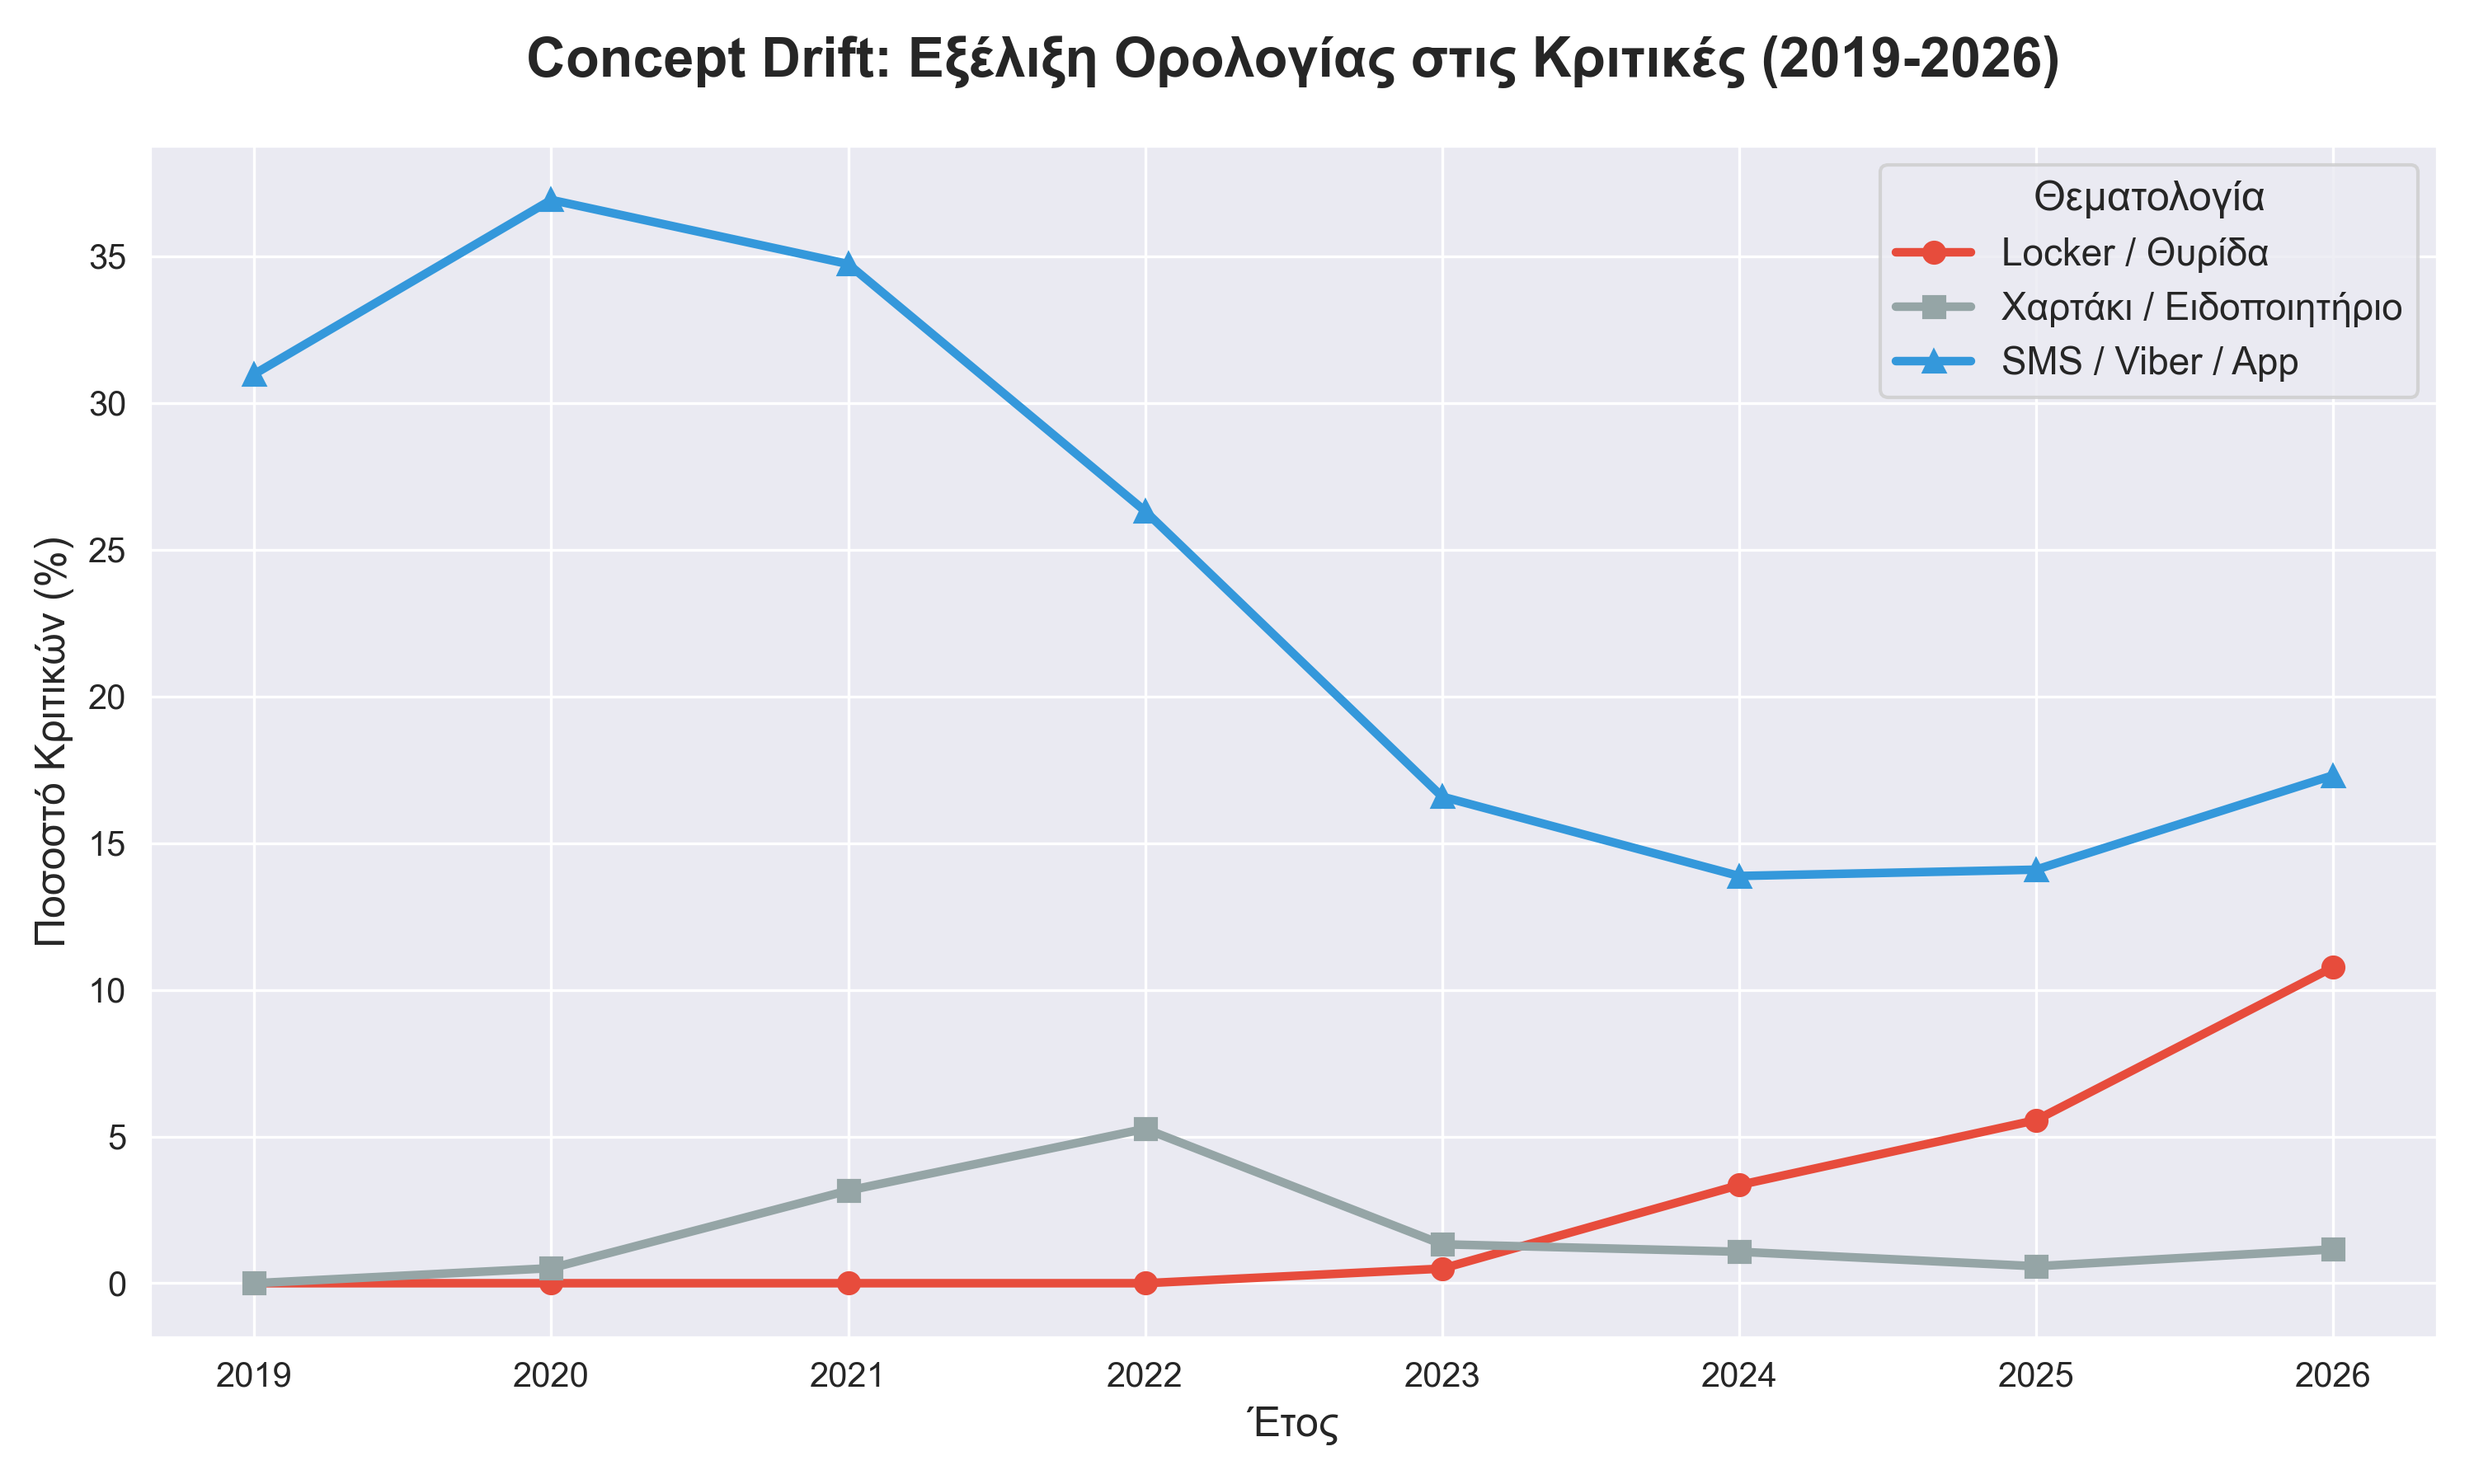
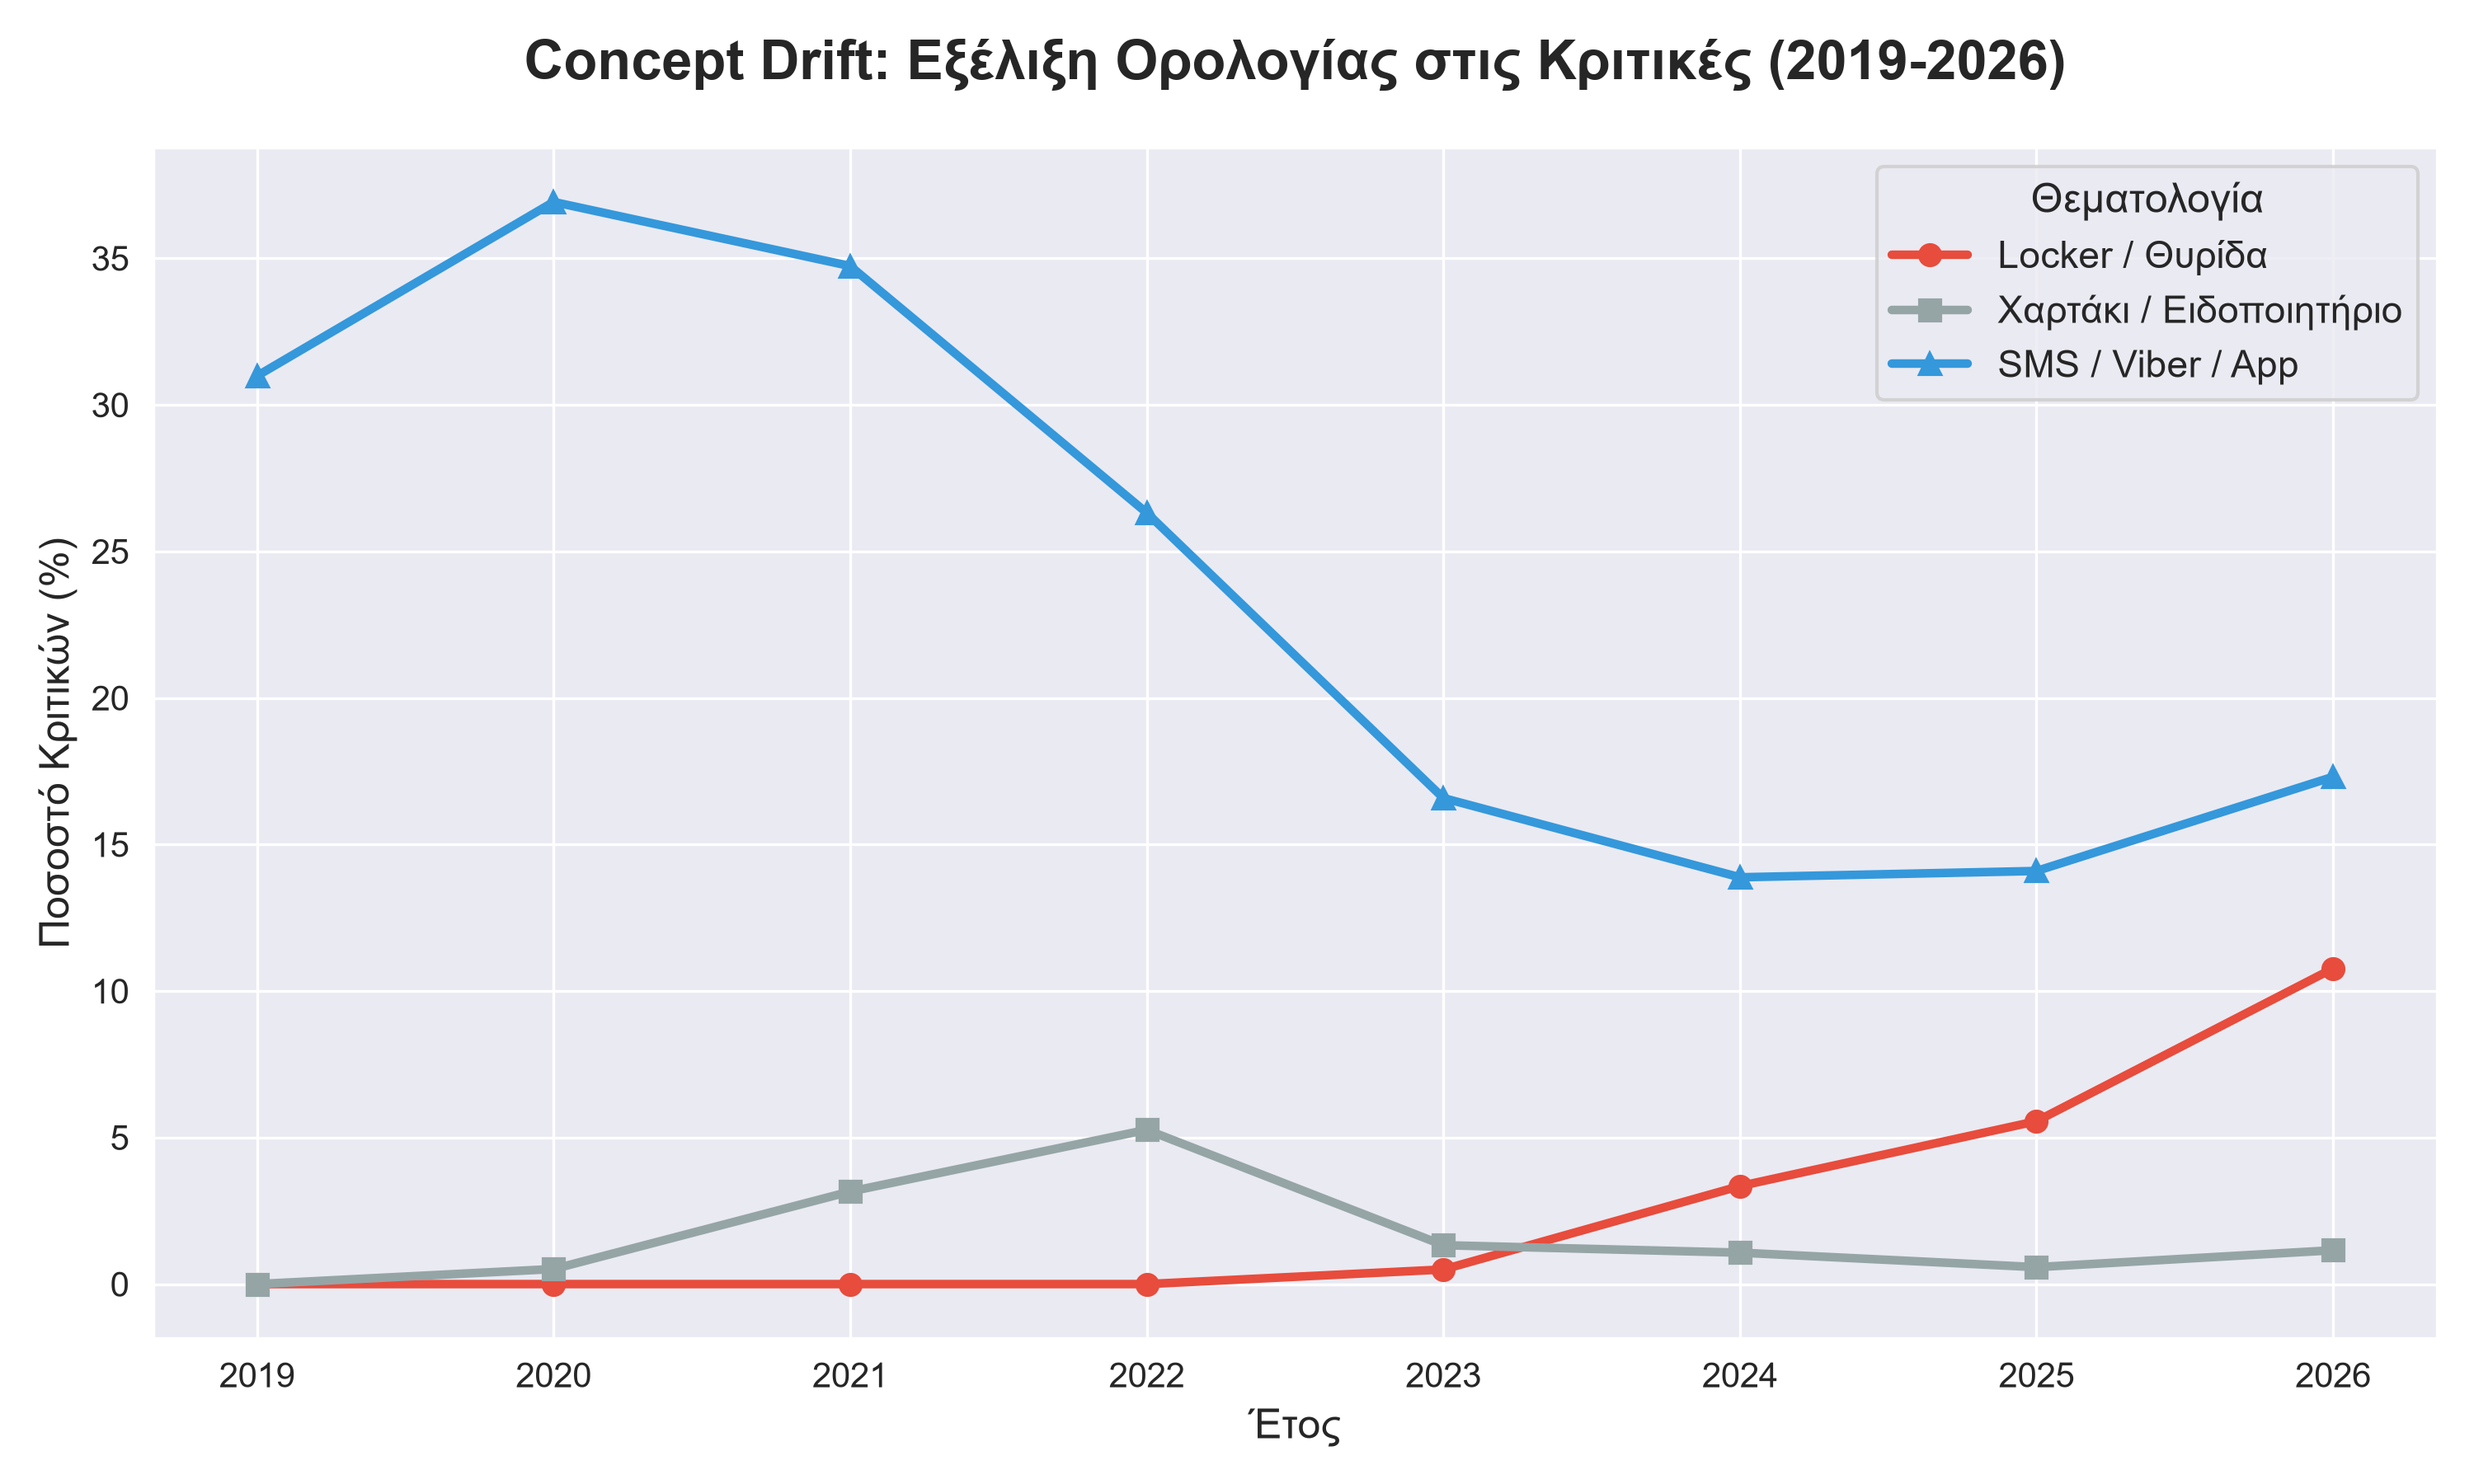
Update script comments and dynamic paths

diff --git a/scripts/concept_drift_analysis.py b/scripts/concept_drift_analysis.py
@@ -6,7 +6,8 @@ import os
 
 def main():
     print("Loading data...")
-    # Δυναμική εύρεση του σωστού path ανεξάρτητα από το πού τρέχει το script
+
+    # Dynamically find the absolute path to ensure execution from any directory
     script_dir = os.path.dirname(os.path.abspath(__file__))
     project_root = os.path.dirname(script_dir)
     data_path = os.path.join(project_root, 'data', '03_reviews_final_processed.csv')
@@ -19,10 +20,10 @@ def main():
     df['date'] = pd.to_datetime(df['date'], errors='coerce')
     df['year'] = df['date'].dt.year
 
-    # Filter years 2019 to 2026 (ignore 2018 as it has only 21 reviews, which adds noise)
+    # Filter years 2019 to 2026 (ignore 2018 as it has only 21 reviews)
     df = df[(df['year'] >= 2019) & (df['year'] <= 2026)]
 
-    # Define keyword groups (lowercase since cleaned_text is lowercase)
+    # Define keyword groups 
     kw_locker = ['locker', 'lockers', 'θυρίδα', 'θυριδα', 'box', 'skroutz point']
     kw_paper = ['χαρτάκι', 'χαρτακι', 'ειδοποιητήριο', 'ειδοποιητηριο']
     kw_digital = ['sms', 'viber', 'εφαρμογή', 'εφαρμογη', 'app', 'μήνυμα', 'μηνυμα']
@@ -49,6 +50,7 @@ def main():
     yearly_stats['SMS/Viber/App (%)'] = (yearly_stats['digital_count'] / yearly_stats['total_reviews']) * 100
 
     print("Generating and saving the line chart...")
+    
     # Plotting
     plt.figure(figsize=(10, 6))
     sns.set_style('darkgrid')

diff --git a/scripts/topic_modeling_lda.py b/scripts/topic_modeling_lda.py
@@ -5,7 +5,8 @@ import os
 
 def main():
     print("Loading dataset...")
-    # Δυναμική εύρεση του σωστού path
+
+    # Dynamically resolve the correct path
     script_dir = os.path.dirname(os.path.abspath(__file__))
     project_root = os.path.dirname(script_dir)
     data_path = os.path.join(project_root, 'data', '03_reviews_final_processed.csv')
@@ -40,11 +41,13 @@ def main():
     ]
 
     print("Vectorizing text (CountVectorizer)...")
+
     # Convert text to numerical vectors
     vectorizer = CountVectorizer(max_df=0.85, min_df=10, stop_words=custom_stopwords, ngram_range=(1,2))
     X = vectorizer.fit_transform(df['cleaned_text'])
 
     print("Running LDA Model for 5 Topics...")
+
     # Train Latent Dirichlet Allocation (LDA) algorithm
     n_topics = 5
     lda = LatentDirichletAllocation(n_components=n_topics, random_state=42)
@@ -54,6 +57,7 @@ def main():
 
     print("\n--- TOPIC MODELING RESULTS ---")
     for topic_idx, topic in enumerate(lda.components_):
+        
         # Extract the top 14 keywords for each Topic
         top_features_ind = topic.argsort()[:-15:-1]
         top_features = [feature_names[i] for i in top_features_ind]
